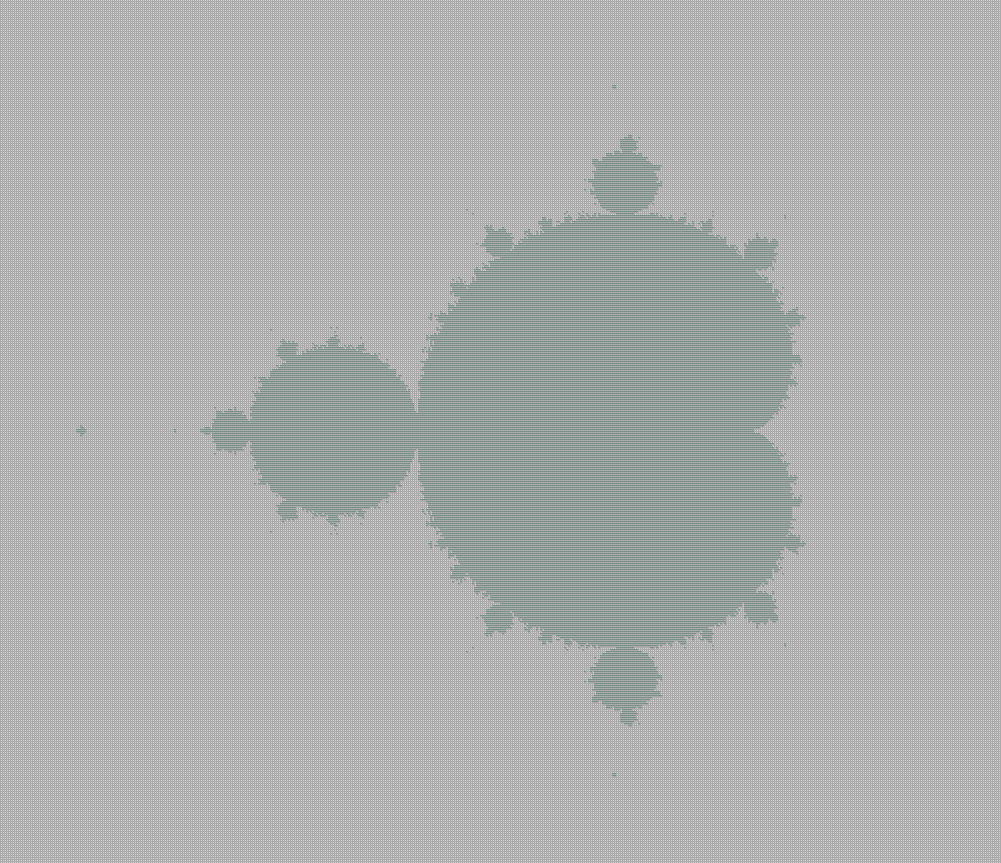
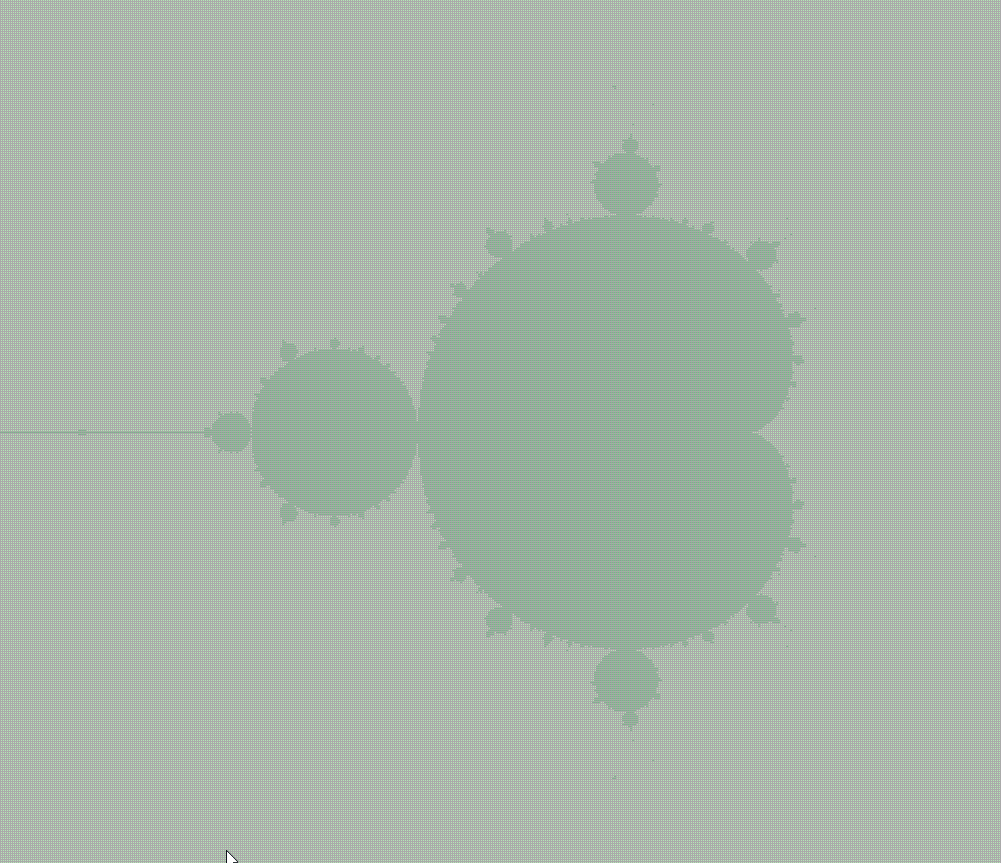
Completed Mandelbrot-Fraktal.md

Changed region(s): [[0.1858, 0.1506, 0.8052, 0.8436], [0.2168, 0.9942, 0.2478, 1.0]]

diff --git a/src/Interne JavaKara Aufgaben/XVII. Mandelbrot-Fraktal.md b/src/Interne JavaKara Aufgaben/XVII. Mandelbrot-Fraktal.md
@@ -45,7 +45,113 @@
 > 2. Rechnen Sie dabei für jedes Feld die Koordinaten des Feldes um auf Koordinaten in einem Koordinatensystem mit \\( (x_{\text{min}} = -2, x_{\text{max}} = 2, y_{\text{min}} = -2, y_{\text{max}} = 2) \\).
 > 3. Wenden Sie die obige Rechenvorschrift an, um rauszufinden, ob der entsprechende Mandelbus den Kreis mit Radius 2 verlässt oder nicht.
 > 4. Falls der Bus den Kreis verlassen hat, legen Sie je ein Kleeblatt auf das entsprechende Feld in Kara's Welt
-> 
+>
+
+Wenn du es bis hierhin geschafft hast, Herzlichen Glückwunsch! Diese Aufgabe ist mit großem Abstand die schwerste in der Liste der internen JavaKara Aufgaben, selbst mit der gegebenen Hilfestellung der Aufgabenstellung.
+
+Wir können anhand der Auflistung in der Aufgabenstellung jedoch Stückweise vorgehen und unsere Lösung Stück für Stück implementieren. Zunächst müssen wir jedes Feld der Welt durchlaufen, da wir zwei Koordinatenachsen besitzen, lässt sich dies mit einem doppelt genesteten `for`-Loop umsetzen. Wir gehen im äußeren Loop durch alle Spalten und im inneren durch alle Zeilen, die Reihenfolge ist jedoch eigentlich egal.
+
+```Java
+public void myMainProgram() {
+    // Wir könnten auch eine Welt in der `main`-Methode laden.
+    // WIDTH = 200
+    // HEIGHT = 200
+    world.setSize(WIDTH, HEIGHT);
+
+    for (int i = 0; i < WIDTH; i++) {
+        for (int j = 0; j < HEIGHT; j++) {
+            
+        }
+    }
+}
+```
+
+Als nächstes müssen wir die Koordinaten der Kara-Welt, welche links oben mit `(0, 0)` beginnt und rechts unten mit `(WIDTH, HEIGHT)` endet, in ein zentriertes, kartesisches Koordinatensystem umwandeln.
+
+```Java
+private double[] getCoordinate(int xPixel, int yPixel) {
+    double realMin = -2.0;
+    double realMax = 1.0;
+    double imagMin = -1.5;
+    double imagMax = 1.5;
+
+    double cx = realMin + ((double) xPixel / WIDTH) * (realMax - realMin);
+    double cy = imagMin + ((double) yPixel / HEIGHT) * (imagMax - imagMin);
+
+    return new double[]{cx, cy};
+}
+```
+
+Beispielrechnung mit den Koordinaten `(0, 0)`:
+
+\\[ cx = -2 + \frac{0}{200} \cdot 3 = -2 \\]
+\\[ cy = -1.5 + \frac{0}{200} \cdot 3 = -1.5 \\]
+
+Beispielrechnung mit den Koordinaten `(200, 200)` (Wenn `WIDTH = 200` und `HEIGHT = 200`):
+
+\\[ cx = -2 + \frac{200}{200} \cdot 3 = 1 \\]
+\\[ cy = -1.5 + \frac{200}{200} \cdot 3 = 1.5 \\]
+
+Alle Koordinaten der Kara Welt werden somit auf die kartesischen Fläche übertragen. Daraus folgt folgendes Hauptprogramm:
+
+```Java
+public void myMainProgram() {
+    world.setSize(WIDTH, HEIGHT);
+
+    for (int i = 0; i < WIDTH; i++) {
+        for (int j = 0; j < HEIGHT; j++) {
+            double[] c = getCoordinate(i, j);
+            if (isInMandelbrotSet(c[0], c[1])) {
+                world.setLeaf(i, j, true);
+            }
+        }
+    }
+}
+```
+
+Wir erstellen für jede Iteration der inneren Schleife einen Array, der die kartesischen Koordinaten speichert. Dann prüfen wir ob der Punkt mit diesen Koordinaten nach 100 iterationen divergiert (hier gegen unendlich geht) oder konvergiert (einen festen Wert annimmt).
+
+Die Methode ist wie folgt aufgebaut:
+
+```Java
+private boolean isInMandelbrotSet(double cx, double cy) {
+    // Hier definieren wir den Real- und Imaginärteil der Koordinate.
+    double real = 0.0;
+    double imag = 0.0;
+    for (int i = 0; i < ITERATIONS; i++) {
+        // Wir quadrieren hier beide Komponeten der komplexen Zahl
+        double realSq = real * real;
+        double imagSq = imag * imag;
+        /*
+        * Und prüfen ob die Summe davon größer ist als ein gewisser Richtwert (hier 4.0).
+        * Wir können diese optimisierung vornehmen, da sich der "Mandelbus" spiralförmig bildet und 
+        * wenn der Pfad der Koordinate einen gewissen Wert übersteigt, lässt sich mit sicherheit sagen,
+        * dass dieser Wert nicht mehr konvergiert. Das erspart uns bei der Berechnung sehr viele Iterationen.
+        */
+        if (realSq + imagSq > 4.0) {
+            return false;
+        }
+        /*
+        * Hier schreiben wir berechneten Werte für die nächste Iteration auf die alten Variablen.
+        * Die Formeln stammen aus der Aufgabenstellung
+        * x[neu] = x^2 - y^2 + a
+        * y[neu] = 2 * x * y + b
+        */
+        real = realSq - imagSq + cx;
+        imag = 2 * real * imag + cy;
+    }
+    return true;
+}
+```
+
+Wenn der "Mandelbus" konvergiert, dann legen wir ein Blatt, wenn nicht, dann nicht.
+
+Das gesammte Programm sieht so aus:
+
+> # Hinweis
+>
+> Es ist erwünscht mit den Variablen herumzuspielen,
+> besonders mit `ITERATIONS`, da die Anzahl der Iterationen bestimmt wie exakt die Mandelbrot-Menge konstruiert wird.
 
 ```Java
 import javakara.JavaKaraProgram;
@@ -81,10 +187,8 @@ public class Main extends JavaKaraProgram {
             if (realSq + imagSq > 4.0) {
                 return false;
             }
-            double newReal = realSq - imagSq + cx;
-            double newImag = 2 * real * imag + cy;
-            real = newReal;
-            imag = newImag;
+            real = realSq - imagSq + cx;
+            imag = 2 * real * imag + cy;
         }
         return true;
     }
@@ -95,8 +199,8 @@ public class Main extends JavaKaraProgram {
         double imagMin = -1.5;
         double imagMax = 1.5;
 
-        double cx = realMin + (xPixel / (double) (WIDTH - 1)) * (realMax - realMin);
-        double cy = imagMin + ((HEIGHT - 1 - yPixel) / (double) (HEIGHT - 1)) * (imagMax - imagMin);
+        double cx = realMin + ((double) xPixel / WIDTH) * (realMax - realMin);
+        double cy = imagMin + ((double) yPixel / HEIGHT) * (imagMax - imagMin);
 
         return new double[]{cx, cy};
     }
